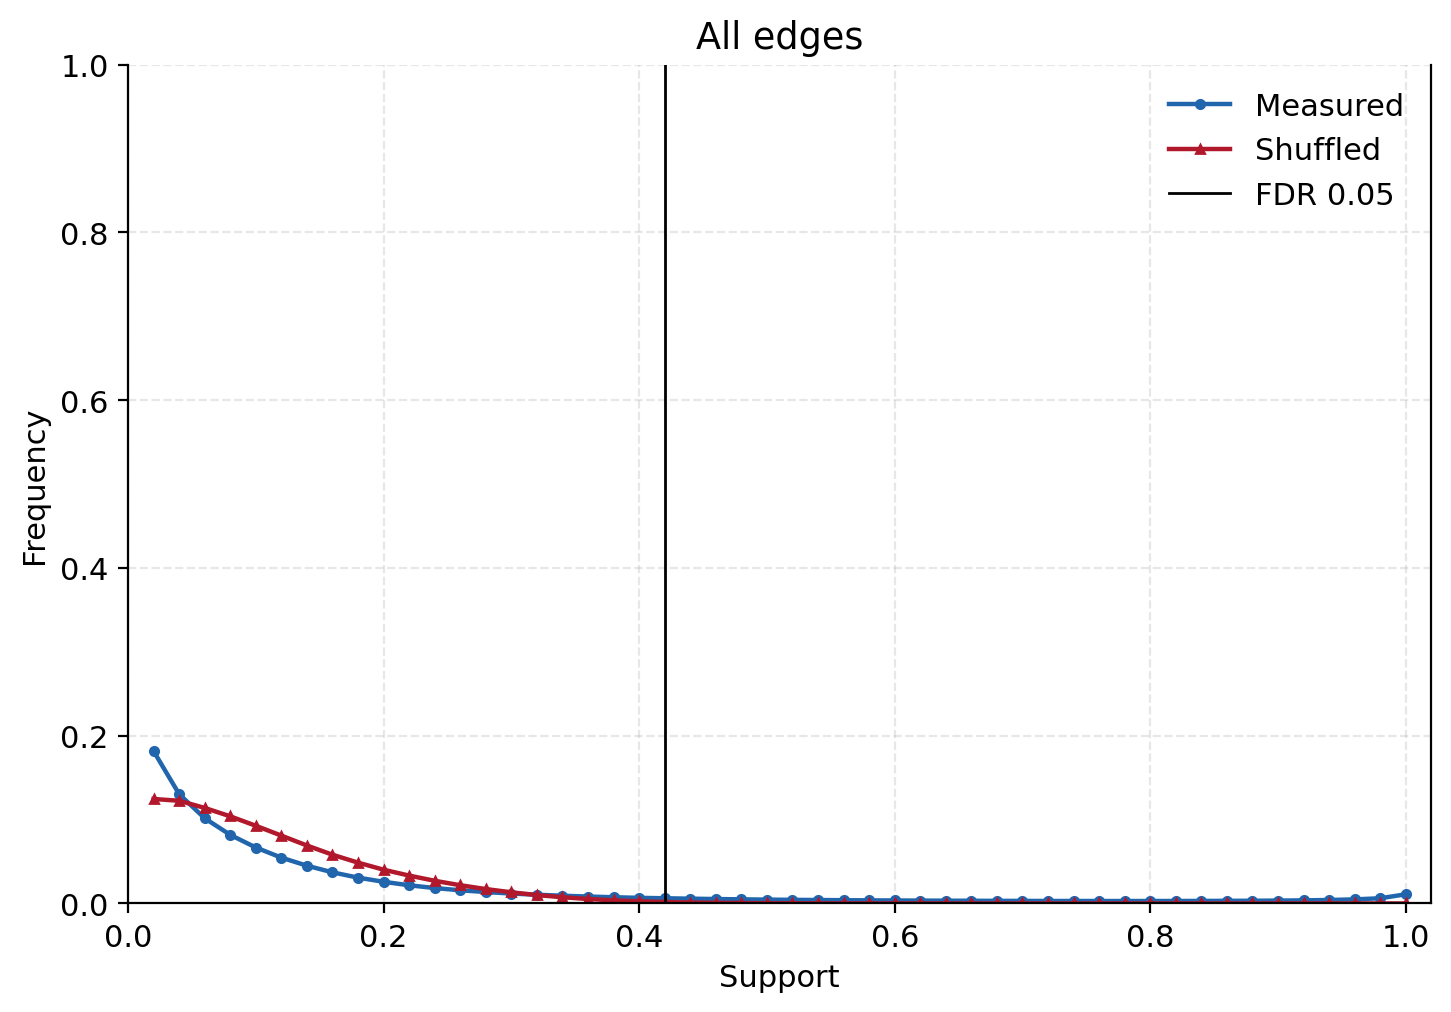
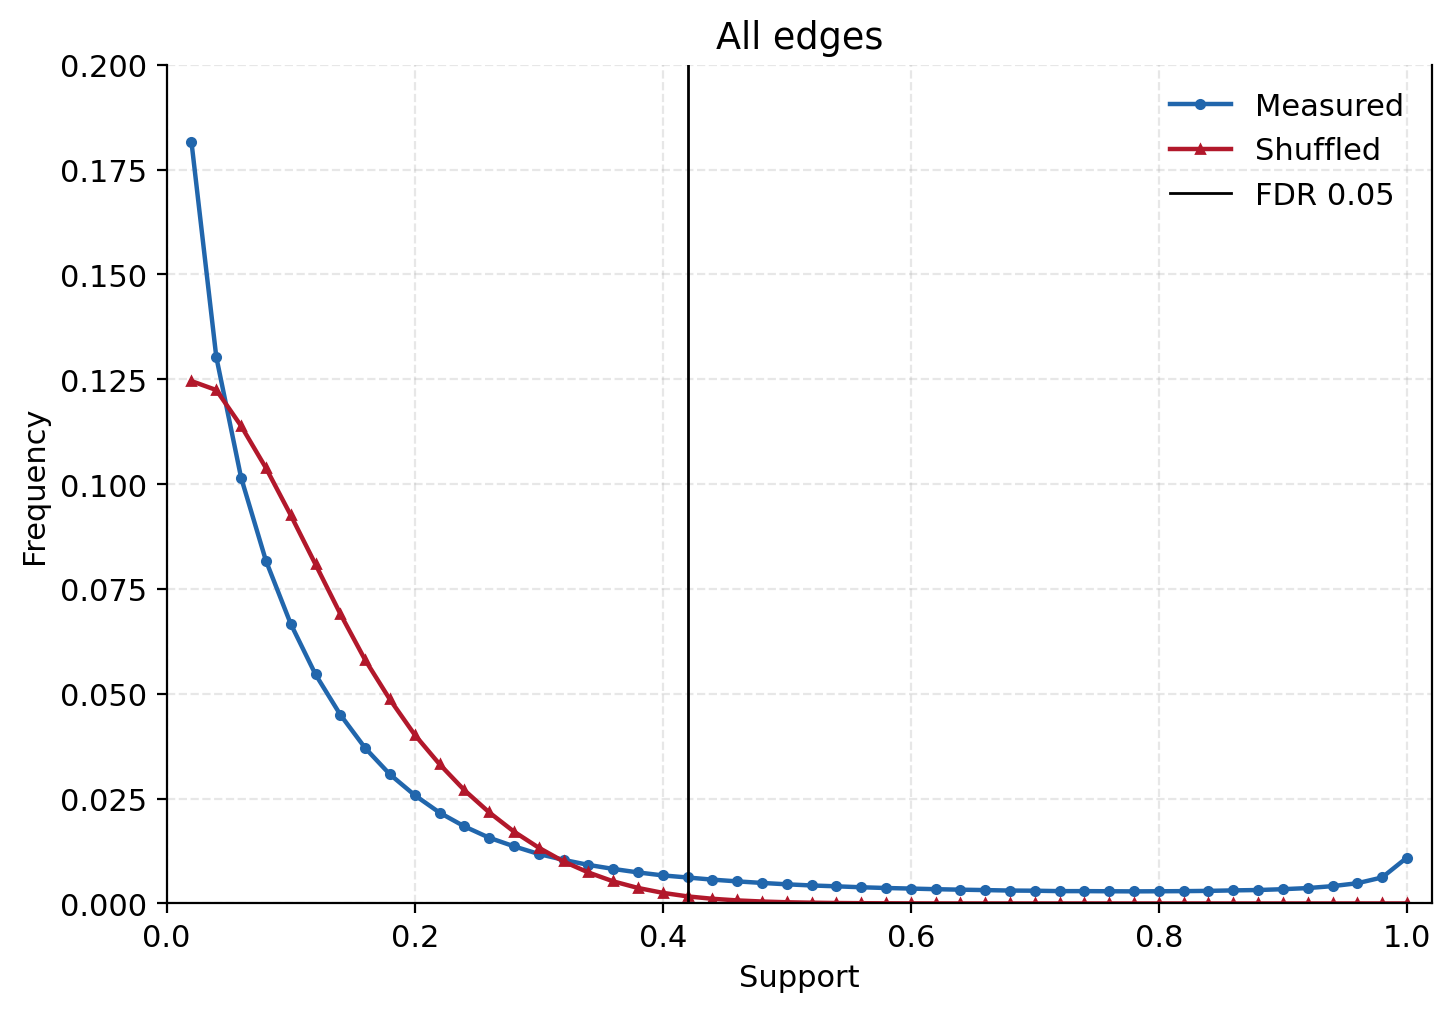
Scale the link-frequency figures from 0 to 0.2.
The one-run peak stays above the frame. The decay through the FDR cutoff is on the axis.

diff --git a/Scenic+/nestboot/chapter_nestboot_fig2.py b/Scenic+/nestboot/chapter_nestboot_fig2.py
@@ -138,9 +138,9 @@ def run_sets(side, degree, kind):
 # ---------------------------------------------------------------------------
 # 6. One panel. Frequency only. Each point is the raw fraction of links
 #    whose support is exactly that multiple of 1/50. Nothing is smoothed.
-#    The line only joins those 50 points. The y-axis runs from 0 to 1 so
-#    the one-run peak and the tail are both on the scale. The black line
-#    is the Equation 1 cutoff.
+#    The line only joins those 50 points. The y-axis runs from 0 to 0.2.
+#    The one-run peak sits above that frame. The black line is the
+#    Equation 1 cutoff.
 # ---------------------------------------------------------------------------
 def draw(ax, title, measured_counts, shuffled_counts, measured_sets, shuffled_sets):
     _, cutoff = equation1(measured_counts, shuffled_counts)
@@ -152,7 +152,7 @@ def draw(ax, title, measured_counts, shuffled_counts, measured_sets, shuffled_se
     ax.plot(support, shuffled_frequency[1:], color="#b2182b", lw=1.6, marker="^", ms=3, label="Shuffled")
     ax.axvline(cutoff, color="black", lw=1.0, label="FDR 0.05")
     ax.set_xlim(0, 1.02)
-    ax.set_ylim(0, 1)
+    ax.set_ylim(0, 0.2)
     ax.set_xlabel("Support")
     ax.set_ylabel("Frequency")
     ax.set_title(title)

diff --git a/Scenic+/nestboot/results_summary/ANALYSIS.md b/Scenic+/nestboot/results_summary/ANALYSIS.md
@@ -81,7 +81,7 @@ The curves are in `fig2_support_frequency_overlap.tsv`.
 
 ![All TF–gene edges](plots/fig2_all_edges.png)
 
-The 2×2 is degrees 3 and 5 only. The top row is regulators per gene. The bottom row is targets per TF. The second figure is every TF–gene edge GRNBoost2 wrote, with no degree cut. Both show link frequency only. Blue is measured, red is shuffled, and the black line is that panel’s Equation 1 cutoff. The y-axis runs from 0 to 1, so the one-run peak and the tail are on the same scale. Each point is the raw fraction of links at that support (1/50, 2/50, …). The curves are not smoothed. The line only joins those points. Self-links are removed. The values are in `fig2_degree_and_full.tsv`.
+The 2×2 is degrees 3 and 5 only. The top row is regulators per gene. The bottom row is targets per TF. The second figure is every TF–gene edge GRNBoost2 wrote, with no degree cut. Both show link frequency only. Blue is measured, red is shuffled, and the black line is that panel’s Equation 1 cutoff. The y-axis runs from 0 to 0.2. The one-run peak sits above that frame. Each point is the raw fraction of links at that support (1/50, 2/50, …). The curves are not smoothed. The line only joins those points. Self-links are removed. The values are in `fig2_degree_and_full.tsv`.
 
 | Graph | Edges scale | Cutoff | Measured links above it | Shuffled links above it | FDR | Shuffled frequency is 0 from |
 |---|---:|---:|---:|---:|---:|---:|
